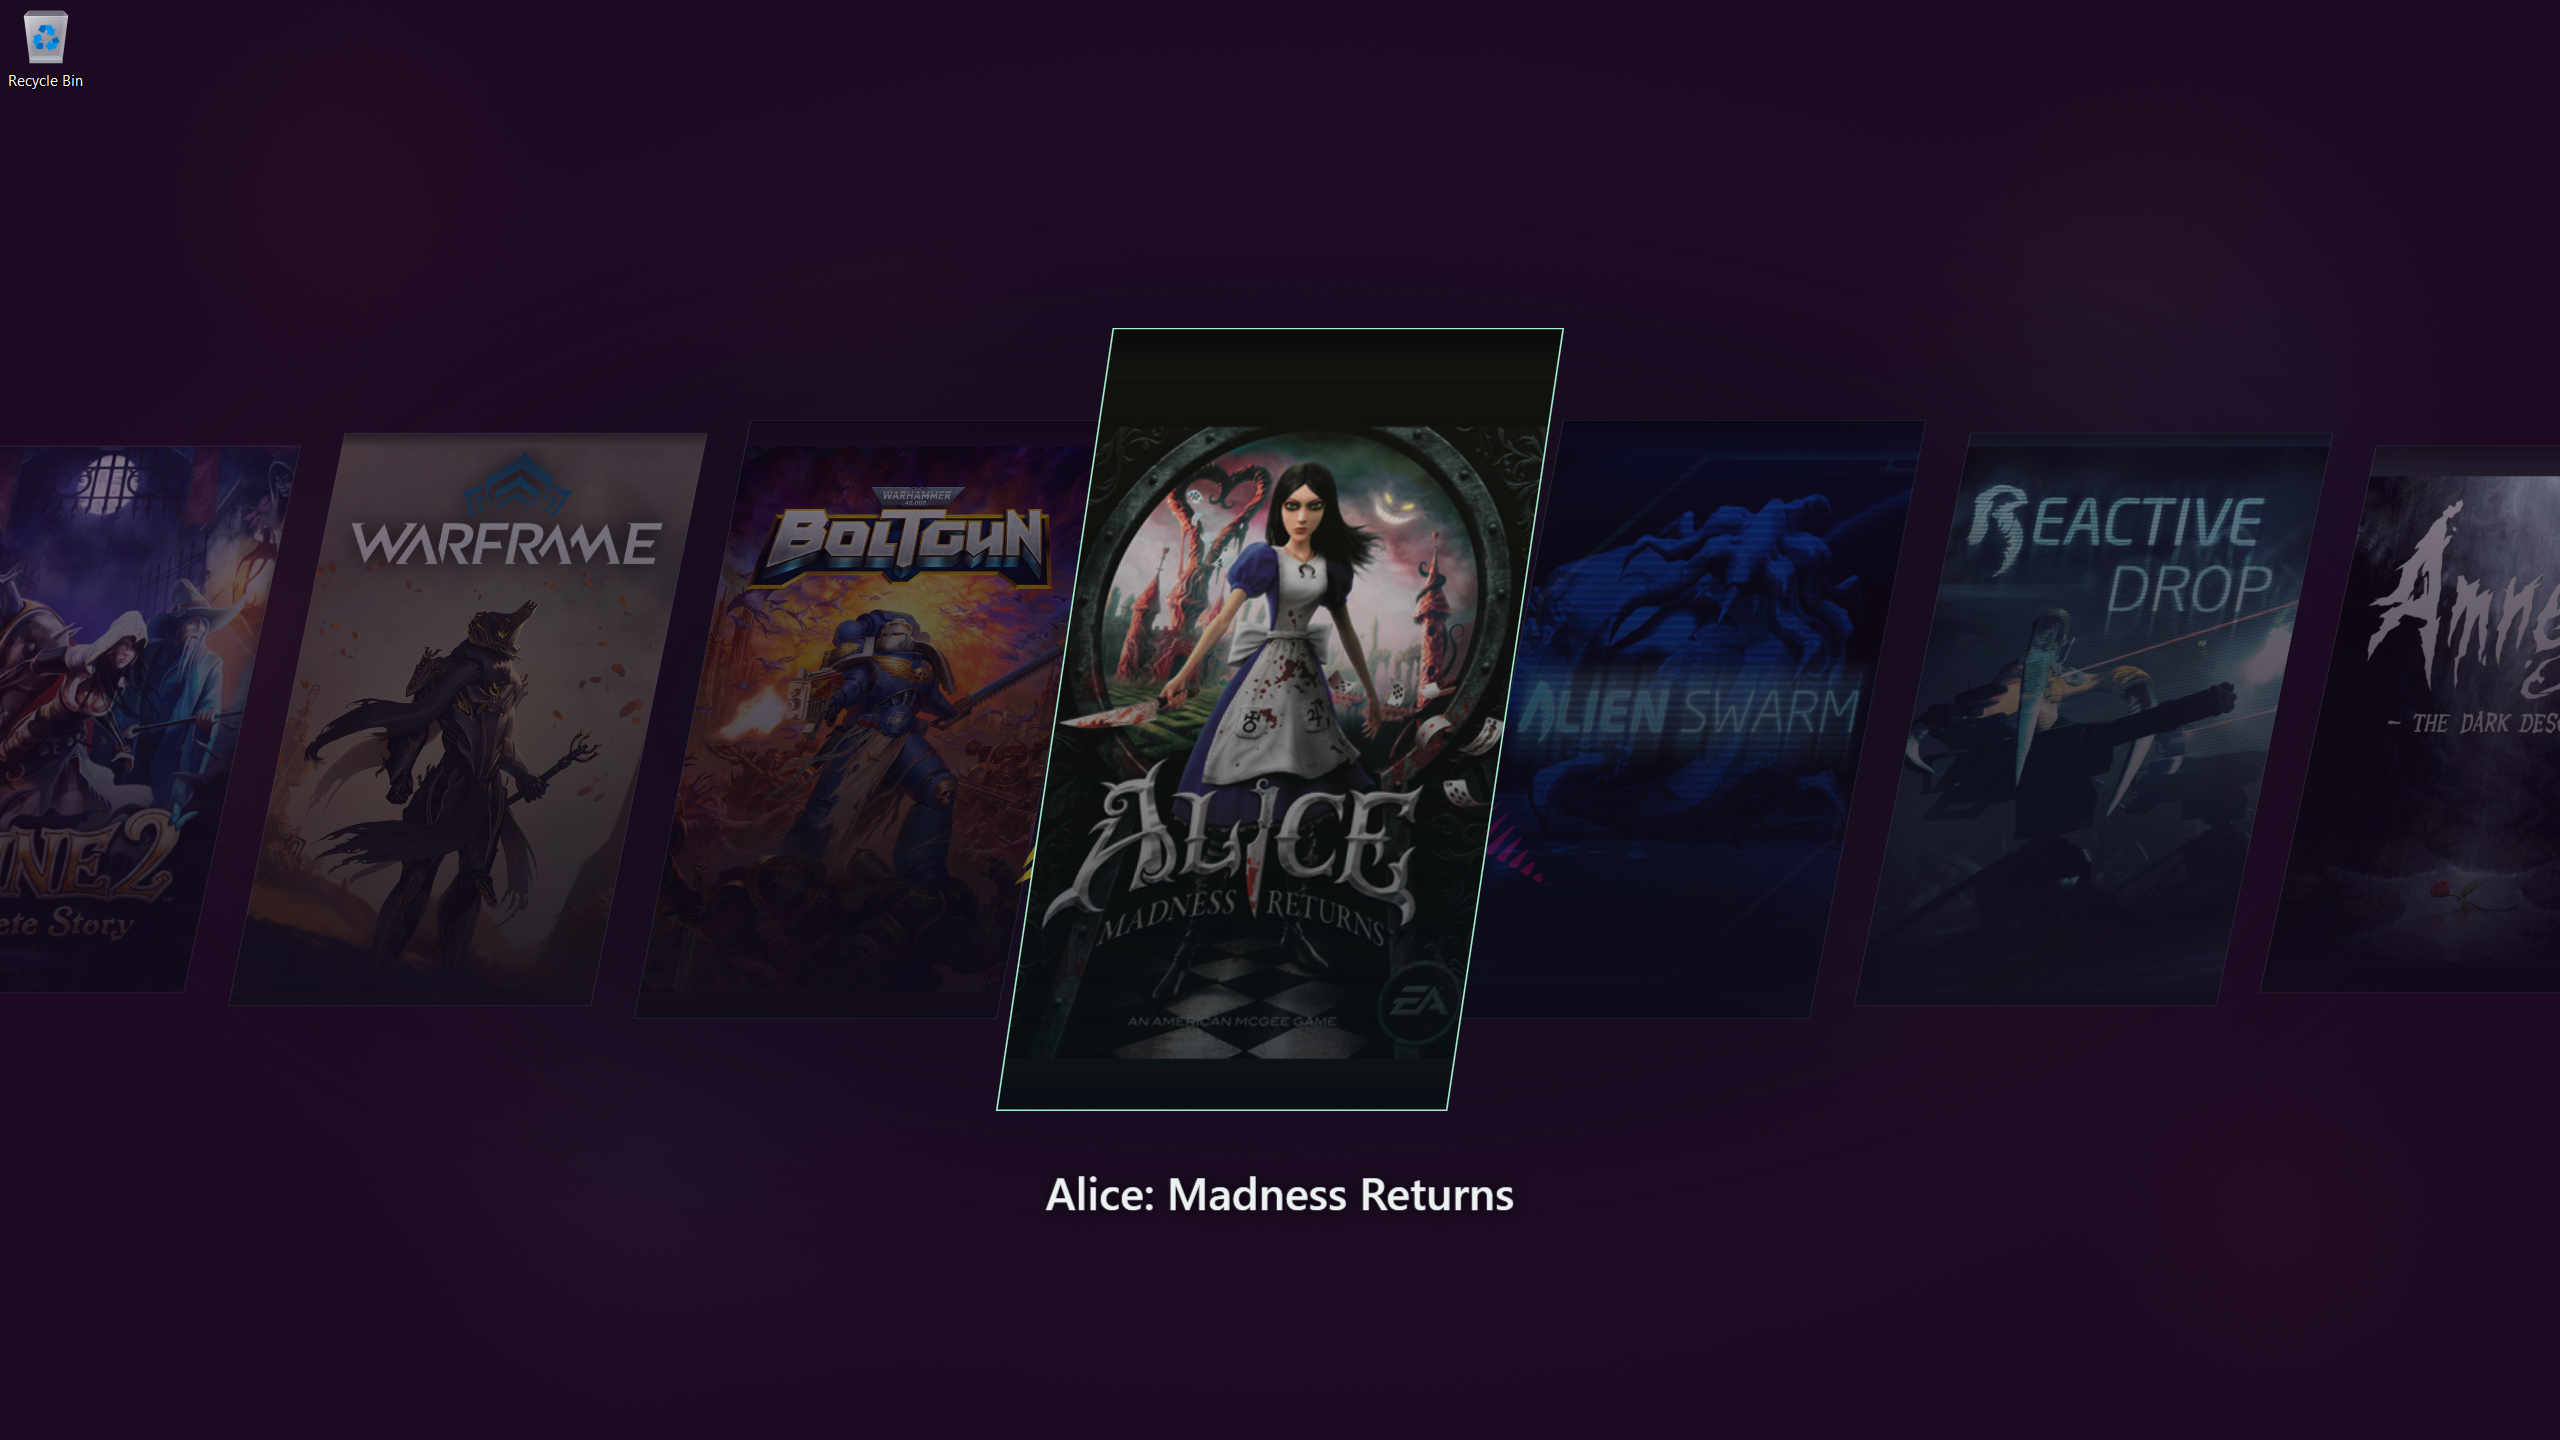
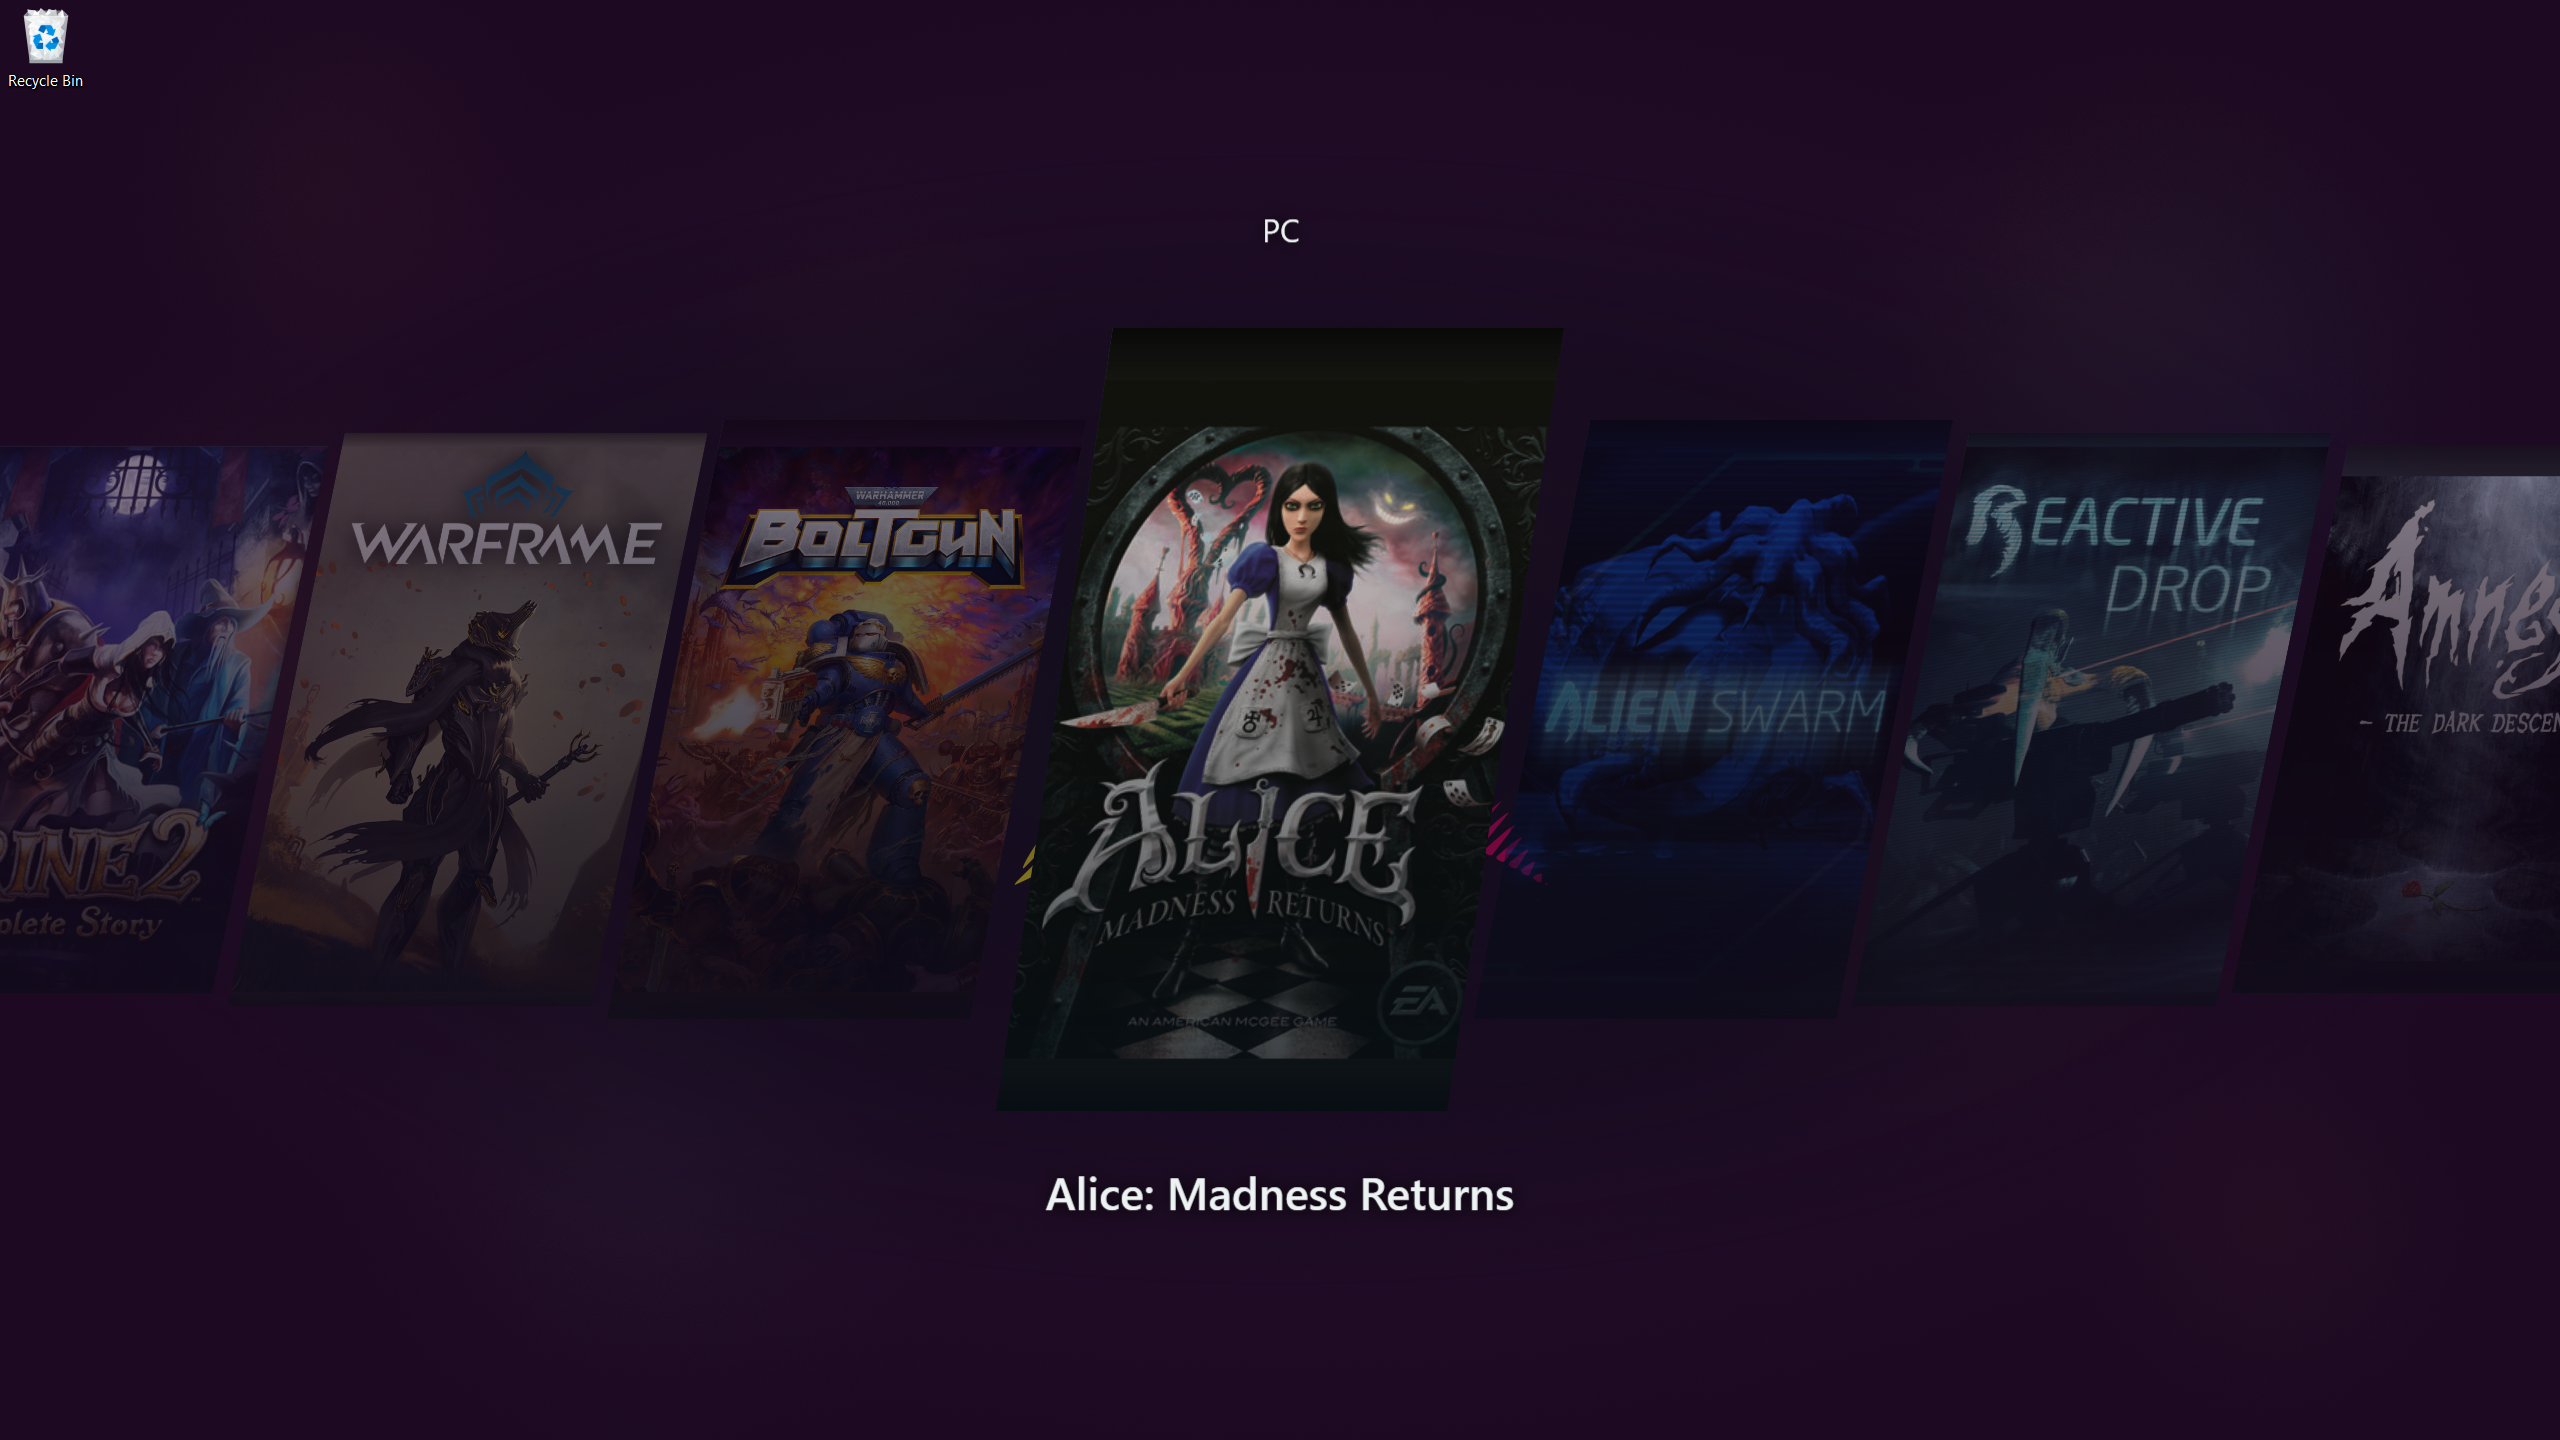
Update README preview screenshot

diff --git a/README.md b/README.md
@@ -1,6 +1,6 @@
 # Pad Launcher
 
-![Pad Launcher showing the .Installed Steam collection over a Windows desktop with the taskbar visible](assets/preview.png)
+![Pad Launcher angled artwork carousel showing Alice: Madness Returns in the PC list](assets/preview.png)
 
 A transparent, controller-friendly Windows game launcher with angled, rectangular and grid layouts. Browse games from multiple launchers, emulators and custom entries, with optional game titles and list names. Organise your games into individual or combined lists and use existing launcher artwork, local images or SteamGridDB covers.
 
